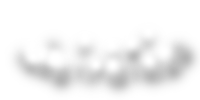
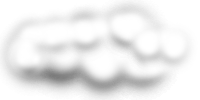
20018/06/05
画像微調整

diff --git a/Task_GameClear.cpp b/Task_GameClear.cpp
@@ -104,12 +104,12 @@ namespace  Clear
 		{
 			this->alpha = 1.0f;
 		}
-		if (this->cloud00pos.x < -200.0f)
+		if (this->cloud00pos.x < -300.0f)
 		{
 			this->cloud00pos.y = rand() % 300 + 100;
 			this->cloud00pos.x = 1920;
 		}
-		if (this->cloud01pos.x < -200.0f)
+		if (this->cloud01pos.x < -300.0f)
 		{
 			this->cloud01pos.y = rand() % 300 + 100;
 			this->cloud01pos.x = 1920;
